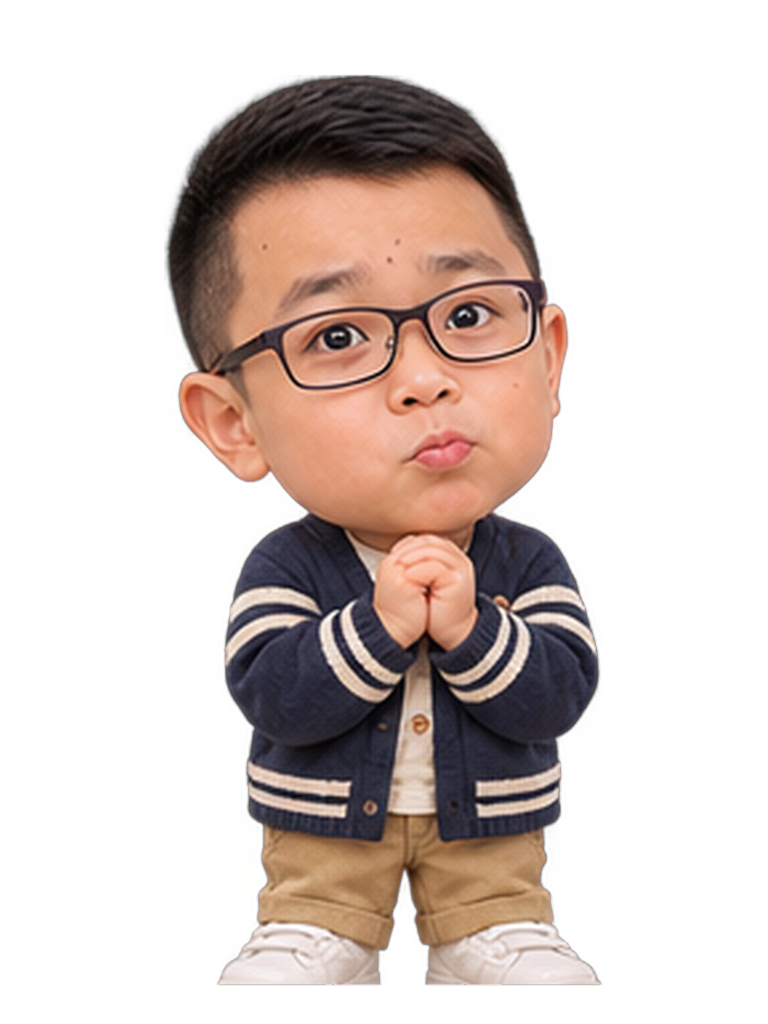
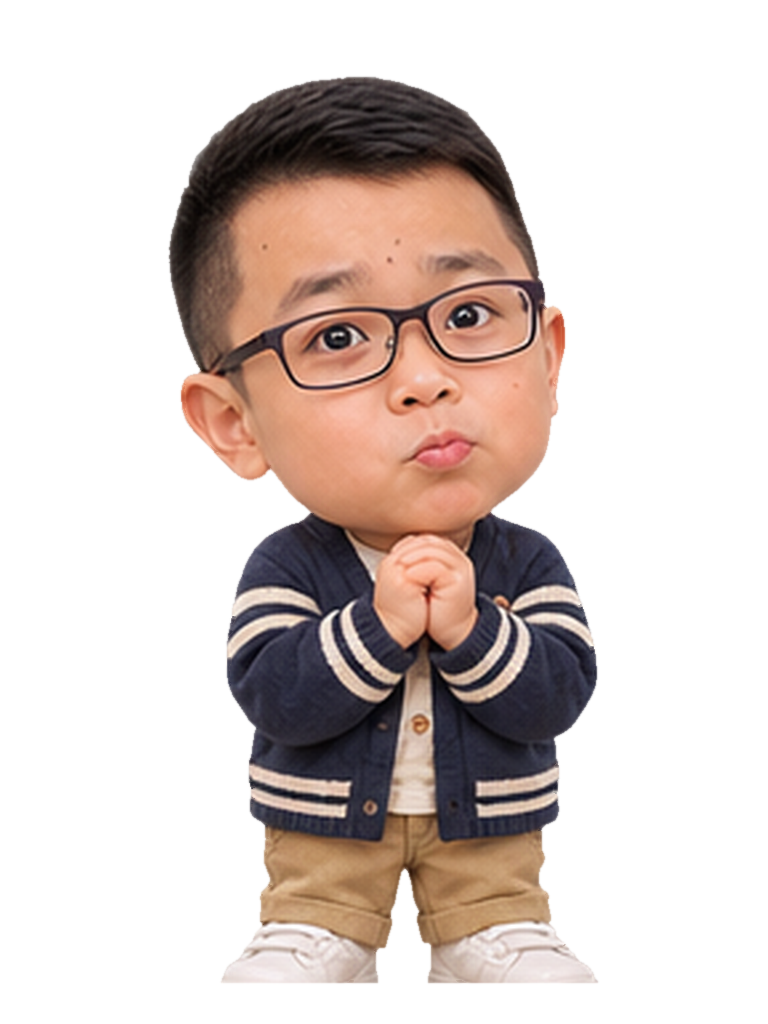
fix(xinan): deep 2px-trim + interior-color rim replacement to eliminate white halo on 3畝/Kenny

diff --git a/xinan.js b/xinan.js
@@ -16,8 +16,8 @@
 
   // --- 高精細去背圖檔載入 ---
   const assetUrls = {
-    bg: "./assets/xinan-temple-bg.jpg?v=20261118_hd_v5",
-    bgDesktop: "./assets/xinan-temple-bg-desktop.webp?v=20261118_hd_v5",
+    bg: "./assets/xinan-temple-bg.jpg?v=20261118_hd_v6",
+    bgDesktop: "./assets/xinan-temple-bg-desktop.webp?v=20261118_hd_v6",
     "weapon-slipper": "./assets/v2/weapon-slipper.webp",
     "weapon-clog": "./assets/v2/weapon-clog.webp",
     "weapon-mallet": "./assets/v2/weapon-mallet.webp",
@@ -30,14 +30,14 @@
     "oracle-blocks": "./assets/v2/oracle-blocks.webp",
     "oracle-stick": "./assets/v2/oracle-stick.webp",
     "oracle-censer": "./assets/v2/oracle-censer.webp",
-    "3畝_normal": "./assets/office-fullbody/3畝_normal.png?v=20261118_hd_v5",
-    "3畝_happy": "./assets/office-fullbody/3畝_happy.png?v=20261118_hd_v5",
-    "3畝_hurt_cry": "./assets/office-fullbody/3畝_hurt_cry.png?v=20261118_hd_v5",
-    "3畝_innocent": "./assets/office-fullbody/3畝_innocent.png?v=20261118_hd_v5",
-    "Kenny_normal": "./assets/office-fullbody/Kenny_normal.png?v=20261118_hd_v5",
-    "Kenny_happy": "./assets/office-fullbody/Kenny_happy.png?v=20261118_hd_v5",
-    "Kenny_hurt_cry": "./assets/office-fullbody/Kenny_hurt_cry.png?v=20261118_hd_v5",
-    "Kenny_innocent": "./assets/office-fullbody/Kenny_innocent.png?v=20261118_hd_v5",
+    "3畝_normal": "./assets/office-fullbody/3畝_normal.png?v=20261118_hd_v6",
+    "3畝_happy": "./assets/office-fullbody/3畝_happy.png?v=20261118_hd_v6",
+    "3畝_hurt_cry": "./assets/office-fullbody/3畝_hurt_cry.png?v=20261118_hd_v6",
+    "3畝_innocent": "./assets/office-fullbody/3畝_innocent.png?v=20261118_hd_v6",
+    "Kenny_normal": "./assets/office-fullbody/Kenny_normal.png?v=20261118_hd_v6",
+    "Kenny_happy": "./assets/office-fullbody/Kenny_happy.png?v=20261118_hd_v6",
+    "Kenny_hurt_cry": "./assets/office-fullbody/Kenny_hurt_cry.png?v=20261118_hd_v6",
+    "Kenny_innocent": "./assets/office-fullbody/Kenny_innocent.png?v=20261118_hd_v6",
     "Sara_normal": "./assets/office-fullbody/Sara_normal.png?v=20261118_plaid_approved",
     "Sara_happy": "./assets/office-fullbody/Sara_happy.png?v=20261118_plaid_approved",
     "Sara_hurt_cry": "./assets/office-fullbody/Sara_hurt_cry.png?v=20261118_plaid_approved",
@@ -1017,6 +1017,7 @@
   }
   requestAnimationFrame(frame);
 })();
+
 
 
 

diff --git a/xinan.html b/xinan.html
@@ -16,7 +16,7 @@
         <span class="brand-seal">殿</span>
         <div class="brand-text">
           <h1>心安宮</h1>
-          <span class="sub">v_18:30:00</span>
+          <span class="sub">v_20:02:00</span>
         </div>
       </div>
 
@@ -55,6 +55,7 @@
   <script src="./xinan.js?v=20261118_cast7_plaid_v3"></script>
 </body>
 </html>
+
 
 
 
